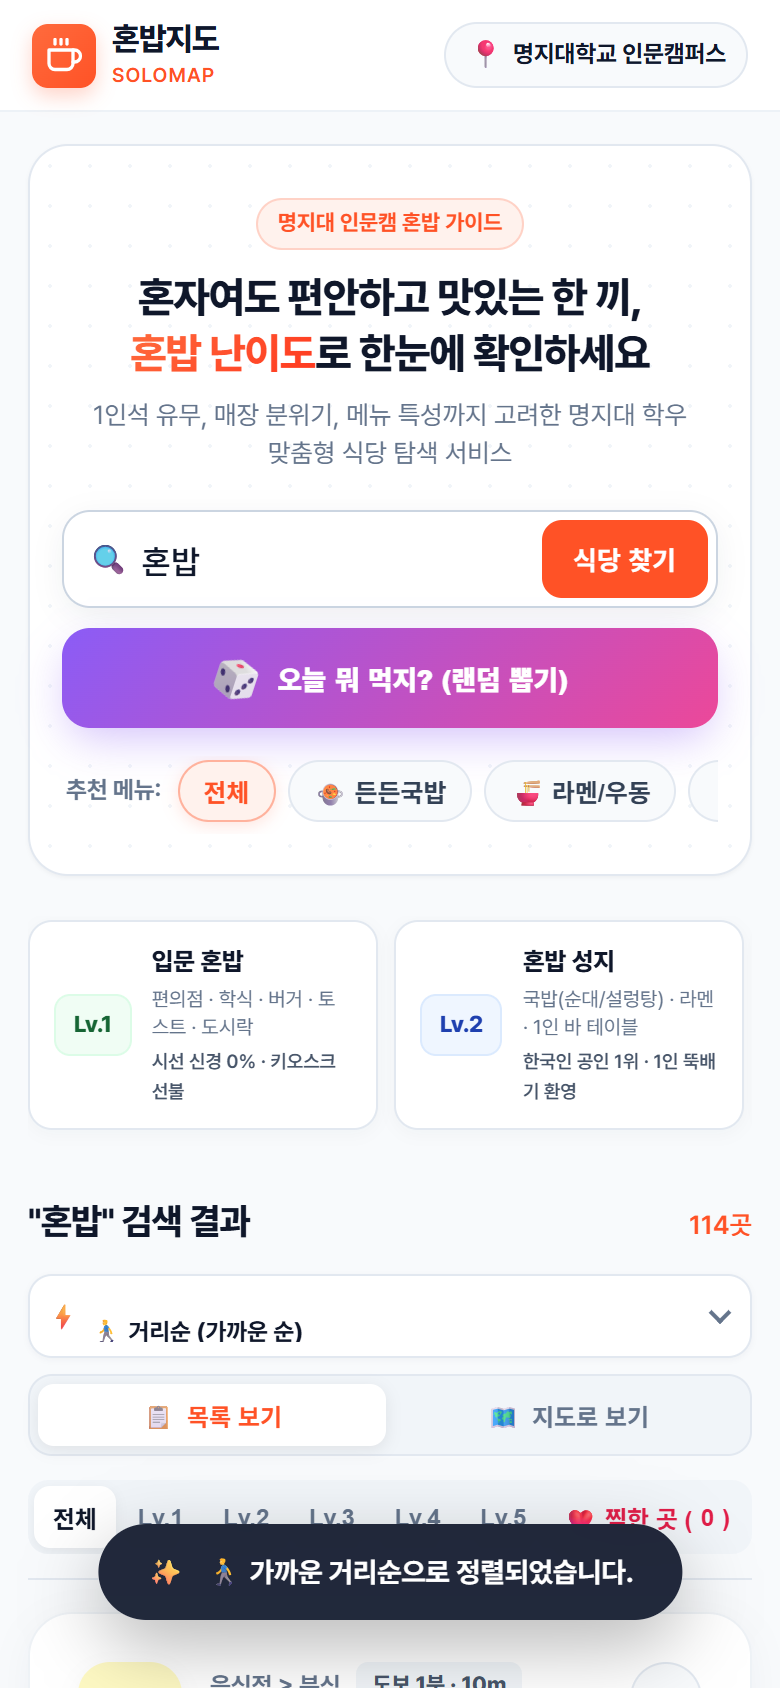
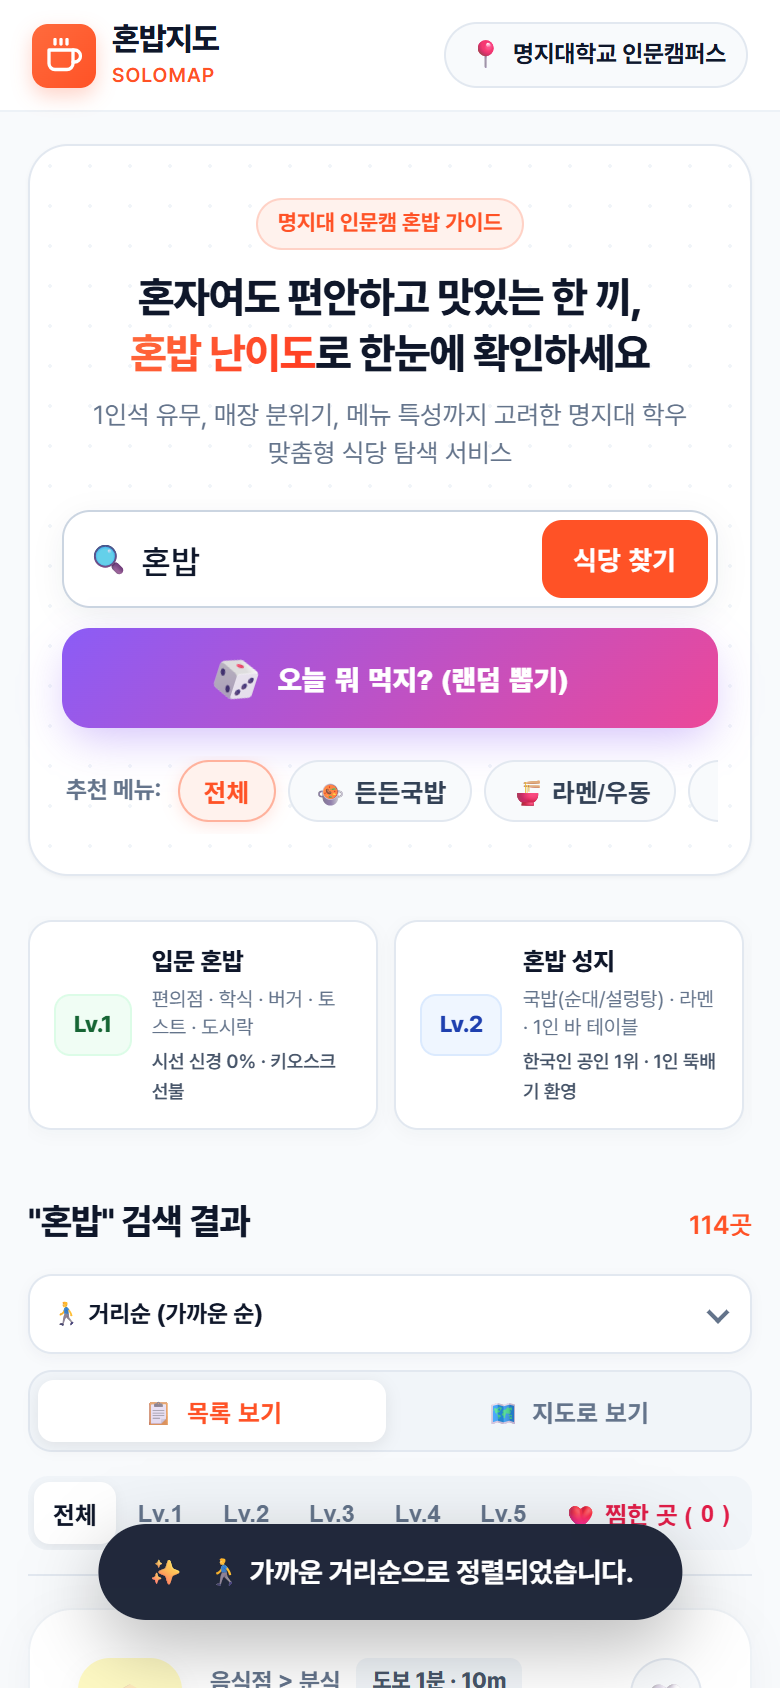
Fix: 정렬 드롭다운 글자 하단 잘림(clipping) 및 이모지/화살표 겹침 현상 해결
- 네이티브 select의 line-height를 normal로 변경하고 baseline 정렬하여 한글 받침 짤림 해결\n- 중복 번개(⚡) 아이콘 제거하여 옵션 이모지와의 겹침 방지\n- 우측 화살표 여백(padding-right: 32px)을 확보하여 텍스트 겹침 방지\n- style.css 내 중복 선언 블록 정리 및 모바일 반응형 최적화\n- 갱신된 정렬 전후 비교 스크린샷 및 발표 슬라이드 이미지 업데이트

diff --git a/public/style.css b/public/style.css
@@ -495,7 +495,7 @@ body {
   background: #ffffff;
   border: 1.5px solid #e2e8f0;
   border-radius: 12px;
-  padding: 0 10px 0 32px;
+  padding: 0;
   box-shadow: 0 2px 6px rgba(15, 23, 42, 0.04);
   transition: all 0.2s ease;
   height: 38px;
@@ -512,15 +512,7 @@ body {
   box-shadow: 0 0 0 3px rgba(255, 87, 34, 0.15);
 }
 
-.sort-selector-wrap .sort-icon {
-  position: absolute;
-  left: 10px;
-  font-size: 14px;
-  pointer-events: none;
-  line-height: 1;
-}
-
-/* 정렬 네이티브 select (모바일 터치 및 PC 완벽 호환) */
+/* 정렬 네이티브 select (모바일 터치 및 PC 완벽 호환, 글자 잘림 방지) */
 .sort-select {
   appearance: none;
   -webkit-appearance: none;
@@ -528,34 +520,37 @@ body {
   background: transparent;
   border: none;
   outline: none;
-  font-family: 'Pretendard', -apple-system, BlinkMacSystemFont, sans-serif;
+  font-family: 'Pretendard', -apple-system, BlinkMacSystemFont, 'Segoe UI', Roboto, sans-serif;
   font-size: 13px;
   font-weight: 700;
   color: var(--text-main);
   cursor: pointer;
-  padding-right: 18px;
   height: 100%;
-  line-height: 38px;
+  padding: 0 32px 0 12px;
+  line-height: normal;
+  vertical-align: middle;
+  display: inline-flex;
+  align-items: center;
 }
 
 /* 커스텀 화살표 아이콘 */
 .sort-selector-wrap::after {
   content: '';
   position: absolute;
-  right: 11px;
+  right: 12px;
   top: 50%;
   width: 6px;
   height: 6px;
   border-right: 2px solid #64748b;
   border-bottom: 2px solid #64748b;
-  transform: translateY(-70%) rotate(45deg);
+  transform: translateY(-60%) rotate(45deg);
   pointer-events: none;
   transition: transform 0.2s ease, border-color 0.2s ease;
 }
 
 .sort-selector-wrap:focus-within::after {
   border-color: var(--primary);
-  transform: translateY(-30%) rotate(-135deg);
+  transform: translateY(-20%) rotate(-135deg);
 }
 
 /* 뷰 전환 탭 (목록 보기 vs 지도로 보기) */
@@ -2874,40 +2869,6 @@ textarea:focus {
   gap: 8px;
 }
 
-/* 3. ⚡ 다차원 정렬 셀렉터 */
-.sort-selector-wrap {
-  display: flex;
-  align-items: center;
-  background: #ffffff;
-  border: 1.5px solid var(--border-light);
-  border-radius: 12px;
-  padding: 0 10px;
-  box-shadow: 0 1px 3px rgba(15, 23, 42, 0.04);
-  transition: all 0.2s ease;
-}
-.sort-selector-wrap:hover {
-  border-color: var(--border-focus);
-}
-.sort-selector-wrap:focus-within {
-  border-color: var(--primary);
-  box-shadow: 0 0 0 3px rgba(255, 82, 38, 0.12);
-}
-.sort-icon {
-  font-size: 13px;
-  color: var(--primary);
-  margin-right: 4px;
-}
-.sort-select {
-  border: none;
-  background: transparent;
-  padding: 7px 2px;
-  font-size: 12.5px;
-  font-weight: 700;
-  color: var(--text-main);
-  cursor: pointer;
-  outline: none;
-  font-family: inherit;
-}
 
 /* 4. 카드 리뷰 영역 클릭 인터랙션 */
 .card-review-box.clickable {
@@ -3098,19 +3059,15 @@ textarea:focus {
   }
   .sort-selector-wrap {
     flex: 1;
-    min-width: 130px;
-    height: 42px; /* 모바일 터치 최적화 42px */
-    padding: 0 8px 0 28px;
-  }
-  .sort-selector-wrap .sort-icon {
-    left: 8px;
-    font-size: 13px;
+    min-width: 135px;
+    height: 40px; /* 모바일 터치 최적화 40px */
+    padding: 0;
   }
   .sort-select {
     width: 100%;
     font-size: 12px;
-    line-height: 42px;
-    padding-right: 14px;
+    line-height: normal;
+    padding: 0 28px 0 10px;
   }
   .view-switch-tabs {
     flex-shrink: 0;

diff --git a/public/index.html b/public/index.html
@@ -152,7 +152,6 @@
         <div class="catalog-controls-group">
           <!-- ⚡ 거리순/난이도순/리뷰순 다차원 정렬 드롭다운 -->
           <div class="sort-selector-wrap">
-            <span class="sort-icon">⚡</span>
             <select id="sort-select" class="sort-select" title="식당 정렬 기준 선택">
               <option value="distance">🚶♂ 거리순 (가까운 순)</option>
               <option value="level-asc">🔰 난이도 낮은 순 (Lv.1→5)</option>
